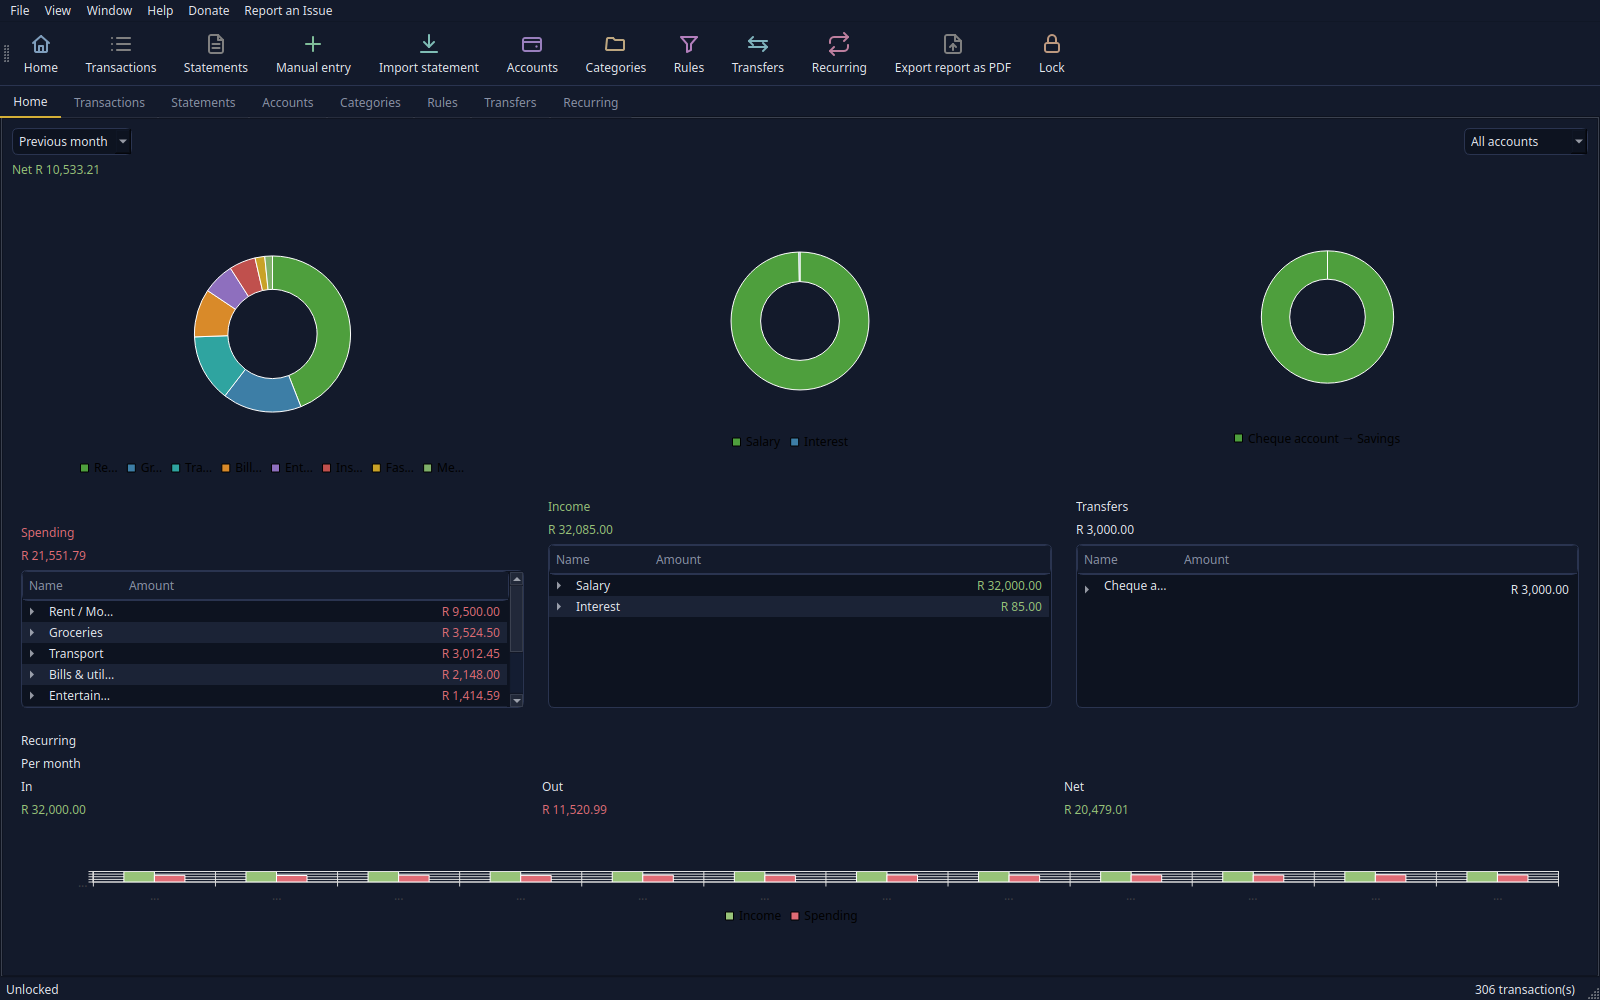
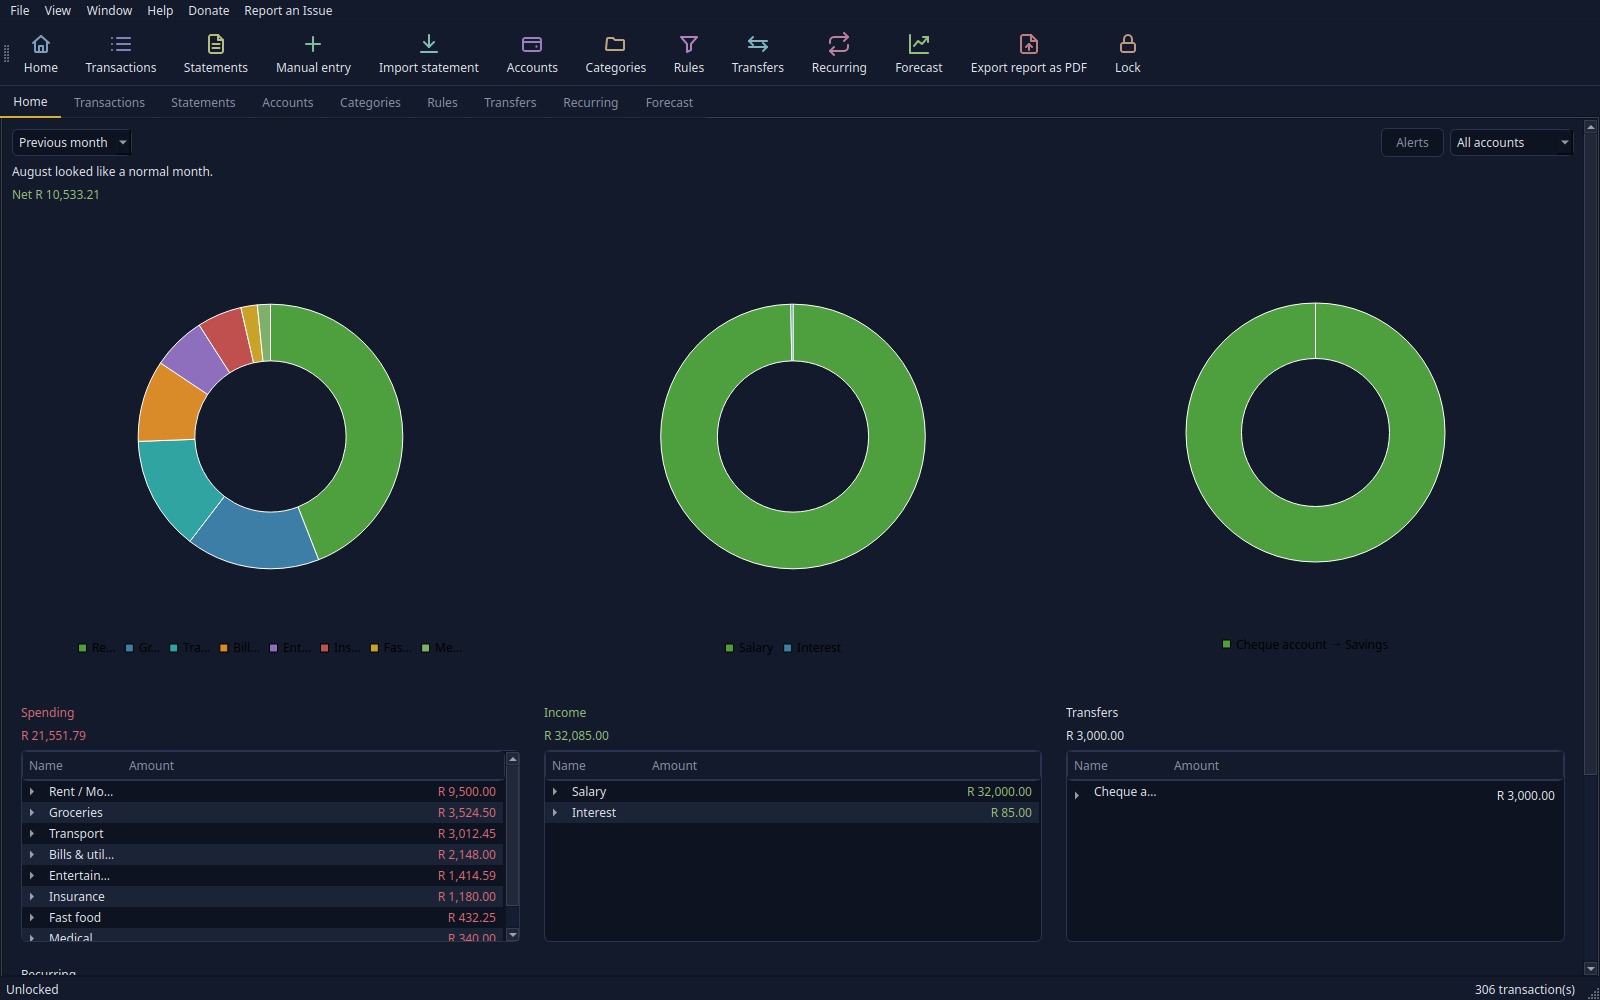
content: finbreak's page gains the recovery code and forecast, and six new screenshots
Text and screenshots from the finbreak session. The page now names the
opt-in update check, the recovery code, the Forecast tab and the native
openSUSE and Fedora packages. The six shots show the one-sentence dashboard
summary and the Alerts button; alt text rewritten from each image. The
blurb says it reads your bank's own statements. Vestige's blurb correction
rides in this commit's projects.json.

diff --git a/src/about/fin-break.md b/src/about/fin-break.md
@@ -3,7 +3,10 @@ instead — the CSV, OFX or PDF files your bank already gives you — and works 
 where your money went from those.
 
 There is no bank linking, no account to sign up for, and no financial data leaving
-your computer. Left at its defaults, the app never touches the internet at all.
+your computer. The one exception is an update check, and it is off by default:
+switch it on and finbreak looks for a newer version and installs it only after
+checking the download is genuinely signed. Leave it off and the app never touches
+the internet at all.
 
 ## What it does
 
@@ -14,8 +17,9 @@ is going, how many transactions are new, how many are duplicates you already hav
 and how many lines it could not read. Nothing is written until you press Import.
 
 **Files them itself.** It reads the account number printed on a statement and
-pre-selects the matching account, telling you why. Where it cannot be sure, it
-says so and leaves the choice to you rather than guessing.
+pre-selects the matching account, telling you why. If it has not seen the account
+before, it offers to create it. Where it cannot be sure, it says so and leaves the
+choice to you rather than guessing.
 
 **Sorts transactions into categories** — up to three levels deep — with built-in
 guesses for common shops and services, your own rules on top, and corrections it
@@ -27,10 +31,10 @@ account to savings is not counted as both spending and income.
 **Spots what repeats** — subscriptions, debit orders, your salary — and suggests
 them for you to confirm, so you can see at a glance what is on autopilot.
 
-**Projects where you are heading.** The forecast starts from a real closing
+**Projects where you are heading.** The Forecast tab starts from a real closing
 balance rather than an estimate, brings it up to date, and draws the line to the
-end of the month or 30, 60 or 90 days out. It names any account it left out and
-why.
+end of the month or 30, 60 or 90 days out, using the repeating money you have
+confirmed. It names any account it left out and why.
 
 **Checks the numbers add up.** Each account is marked ✓ when your imported
 transactions bridge one statement's closing balance to the next, or ⚠ with the
@@ -46,28 +50,37 @@ It stays quiet when a month is ordinary, says "so far" while one is still runnin
 and says nothing at all rather than guessing when there is not yet enough history
 to know what usual means.
 
-Below that, spending, income and transfers sit side by side, each opening down
-from a category to a single shop to the individual purchases. An alerts button
-lights up when something is worth a look — a new recurring charge, a category well
-above its usual, an expected debit that never posted.
+Below that, spending, income and transfers sit side by side. Each opens down from
+a category to a single shop to the individual purchases. An alerts button lights up
+when something is worth a look — a new recurring charge, a category well above its
+usual, an expected debit that never posted.
 
 ## Privacy and safety
 
-Your data sits in an encrypted, password-protected vault. Copied amounts and
-descriptions are cleared from the clipboard after a short while, repeated wrong
-unlock attempts are slowed down, and account numbers show as dots plus the last
-four digits so a glance or a screenshot never gives one away.
+Your data sits in an encrypted, password-protected vault. When you create it,
+finbreak shows you a recovery code once. Keep it somewhere safe: if you forget
+your master password, the code opens the vault and lets you choose a new one.
+finbreak keeps no copy, so losing both the code and the password still means
+losing the vault. You can decline the code, or replace or remove it later.
+
+Copied amounts and descriptions are cleared from the clipboard after a short
+while. Repeated wrong unlock attempts are slowed down. Account numbers show as dots
+plus the last four digits, so a glance or a screenshot never gives one away.
 
 You can export a PDF report — your choice of sections, accounts and period — and
-lock the file with its own password. Backups are encrypted, verified before you
-rely on them, and restorable even onto a new master password if you have forgotten
-the old one.
+lock the file with its own password. Backups are encrypted, checked before you
+rely on them, and can be restored onto a new master password.
 
 ## Where it stands
 
 An early preview that already does a great deal, with polish still coming. There
-are six colour themes plus a follow-your-system setting, and every table remembers
-the column widths and order you gave it.
+are six colour themes plus a follow-your-system setting. Every table remembers the
+column widths and order you gave it, and Window → Reset layout puts them all back
+in one click.
+
+On Linux it runs as a self-contained AppImage, or installs as a native package on
+openSUSE Tumbleweed and Fedora through the openSUSE Build Service. Packages for
+Debian and Ubuntu, a Flathub release and a macOS app are still to come.
 
 **Windows builds are not yet code-signed**, so SmartScreen will query it the first
 time — click *More info* → *Run anyway*. An application to a free signing
